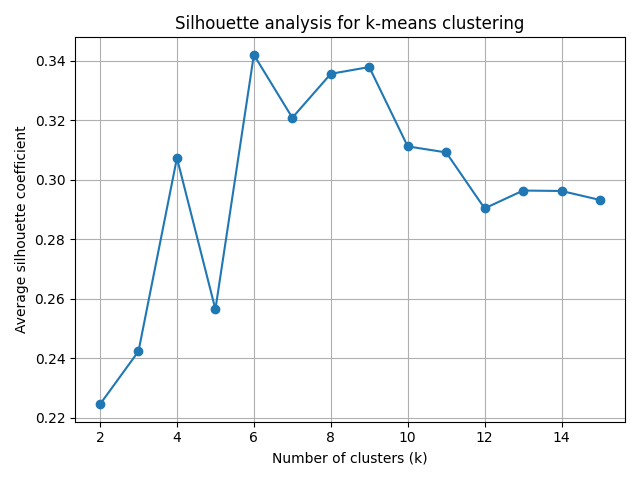
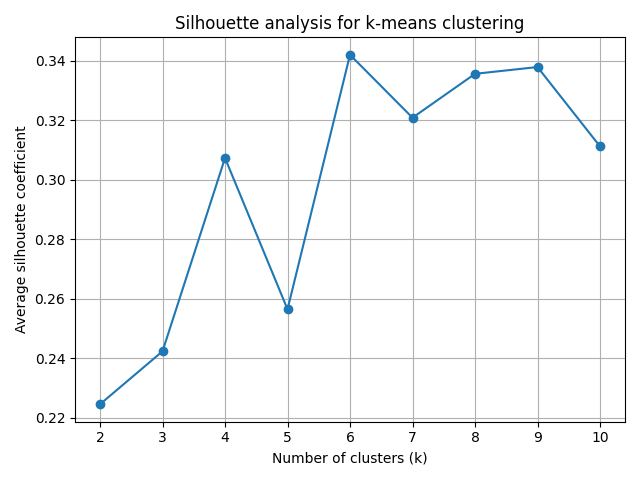
Add Elbow analysis for finding best k

diff --git a/zhao1297-kmean.py b/zhao1297-kmean.py
@@ -236,19 +236,58 @@ def silhouette_analysis(X: np.ndarray, k_values, output_dir: str,
 
     return list(k_values), scores
 
+
+def elbow_analysis(X: np.ndarray, k_values, output_dir: str,
+                   random_state: int = 42):
+    """
+    Compute WCSS (inertia) for each k and use KneeLocator to find the elbow.
+    """
+    wcss = []
+
+    print("=== Elbow analysis ===")
+    for k in k_values:
+        print(f"Running k-means for k = {k} ...")
+        _, _, inertia = kmeans(X, k=k, random_state=random_state)
+        wcss.append(inertia)
+        print(f"  WCSS (inertia): {inertia:.4f}")
+
+    # Plot WCSS vs k
+    plt.figure()
+    plt.plot(list(k_values), wcss, marker="o")
+    plt.xlabel("Number of clusters (k)")
+    plt.ylabel("Within-cluster sum of squares (WCSS)")
+    plt.title("Elbow method for k-means clustering")
+    plt.grid(True)
+    plt.tight_layout()
+
+    elbow_plot_path = os.path.join(output_dir, "elbow_wcss.png")
+    plt.savefig(elbow_plot_path)
+    plt.close()
+    print(f"Elbow plot saved to: {elbow_plot_path}")
+
+    # Use KneeLocator to find elbow
+    k_list = list(k_values)
+    kl = KneeLocator(k_list, wcss, curve="convex", direction="decreasing")
+    elbow_k = kl.knee
+    if elbow_k is not None:
+        print(f"KneeLocator detected elbow at k = {elbow_k}\n")
+    else:
+        print("KneeLocator did not find a clear elbow.\n")
+
+    return k_list, wcss, elbow_k
+
+
 def main():
     if len(sys.argv) < 3:
-        print("Usage: python netid-kmean.py housing.csv output_dir")
+        print("Usage: python zhao1297-kmean.py housing.csv output_dir")
         sys.exit(1)
 
     csv_path = sys.argv[1]
     output_dir = sys.argv[2]
     os.makedirs(output_dir, exist_ok=True)
 
-    # Read the dataset
     df = pd.read_csv(csv_path)
 
-    # 9 original feature columns (for EDA only)
     feature_cols_for_eda = [
         "longitude",
         "latitude",
@@ -265,29 +304,42 @@ def main():
 
     X_norm, cluster_features = preprocess_for_clustering(df)
 
-    k_values = range(2, 16)  # k = 2..10
-    ks, scores = silhouette_analysis(X_norm, k_values, output_dir)
+    # Range of k values to test
+    k_values = range(2, 11)
 
-    # Choose best k as one with maximum silhouette score
-    best_idx = int(np.argmax(scores))
-    best_k = ks[best_idx]
-    print(f"Best k according to silhouette analysis: k = {best_k}, score = {scores[best_idx]:.4f}\n")
+    # Silhouette analysis
+    ks_sil, sil_scores = silhouette_analysis(X_norm, k_values, output_dir)
+    best_sil_idx = int(np.argmax(sil_scores))
+    best_k_sil = ks_sil[best_sil_idx]
+    print(f"Best k by silhouette: k = {best_k_sil}, score = {sil_scores[best_sil_idx]:.4f}\n")
 
-    # Run final k-means with best_k and summarize clusters
-    centroids, labels, inertia = kmeans(X_norm, k=best_k, random_state=42)
+    # Elbow analysis
+    ks_elbow, wcss, elbow_k = elbow_analysis(X_norm, k_values, output_dir)
+
+    # Compare the two
+    print("=== Comparison of Silhouette vs Elbow ===")
+    print(f"Silhouette best k: {best_k_sil}")
+    if elbow_k is not None:
+        print(f"Elbow best k (KneeLocator): {elbow_k}")
+    else:
+        print("Elbow method did not produce a clear knee (knee=None).")
+    print()
+
+    # Choose one k for final clustering (here we stick with silhouette)
+    final_k = best_k_sil if elbow_k is None else best_k_sil
+    centroids, labels, inertia = kmeans(X_norm, k=final_k, random_state=42)
 
     unique, counts = np.unique(labels, return_counts=True)
     print("=== Final k-means clustering result ===")
-    print(f"k = {best_k}")
+    print(f"k = {final_k}")
     print(f"Inertia (sum of squared distances): {inertia:.4f}")
     print("Cluster sizes:")
     for cid, cnt in zip(unique, counts):
         print(f"  Cluster {cid}: {cnt} points")
 
-    # Save summary to file
     log_path = os.path.join(output_dir, "kmeans_summary.txt")
     with open(log_path, "w") as f:
-        f.write(f"k-means summary (k={best_k})\n")
+        f.write(f"k-means summary (k={final_k})\n")
         f.write(f"Inertia: {inertia:.4f}\n")
         f.write("Cluster sizes:\n")
         for cid, cnt in zip(unique, counts):
